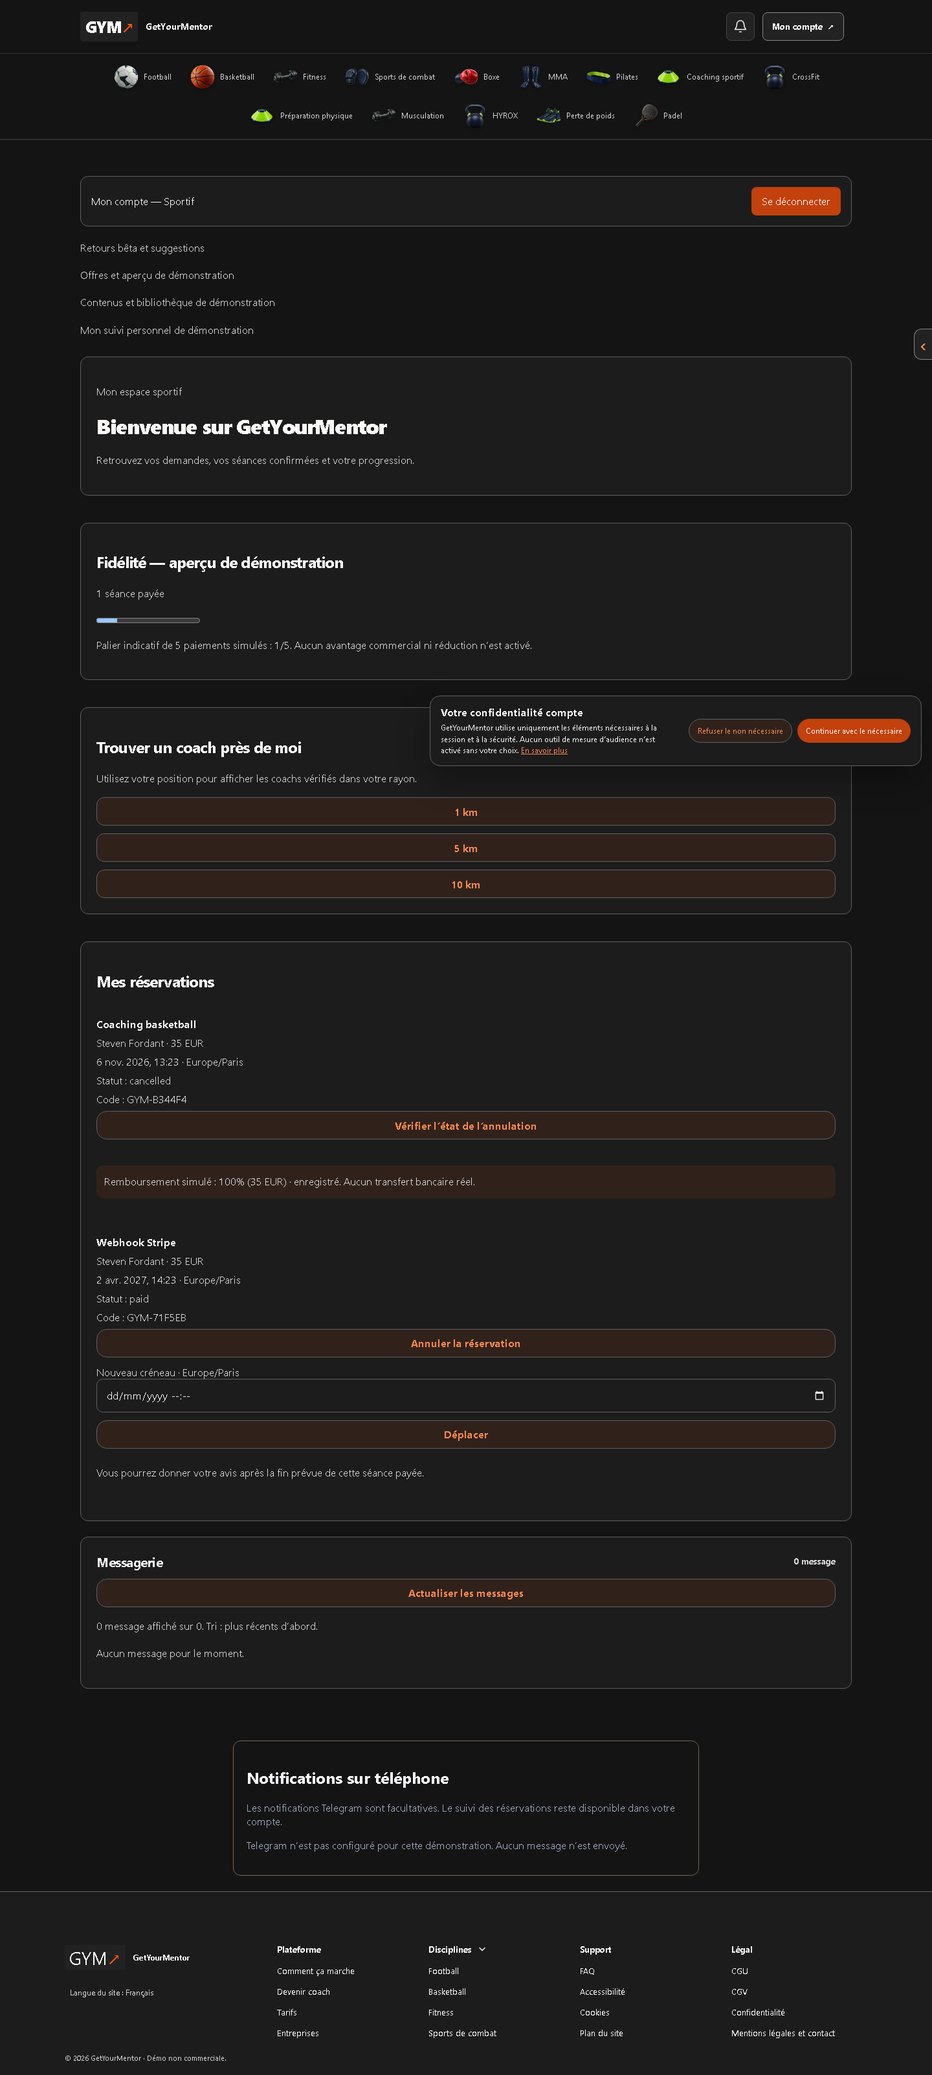
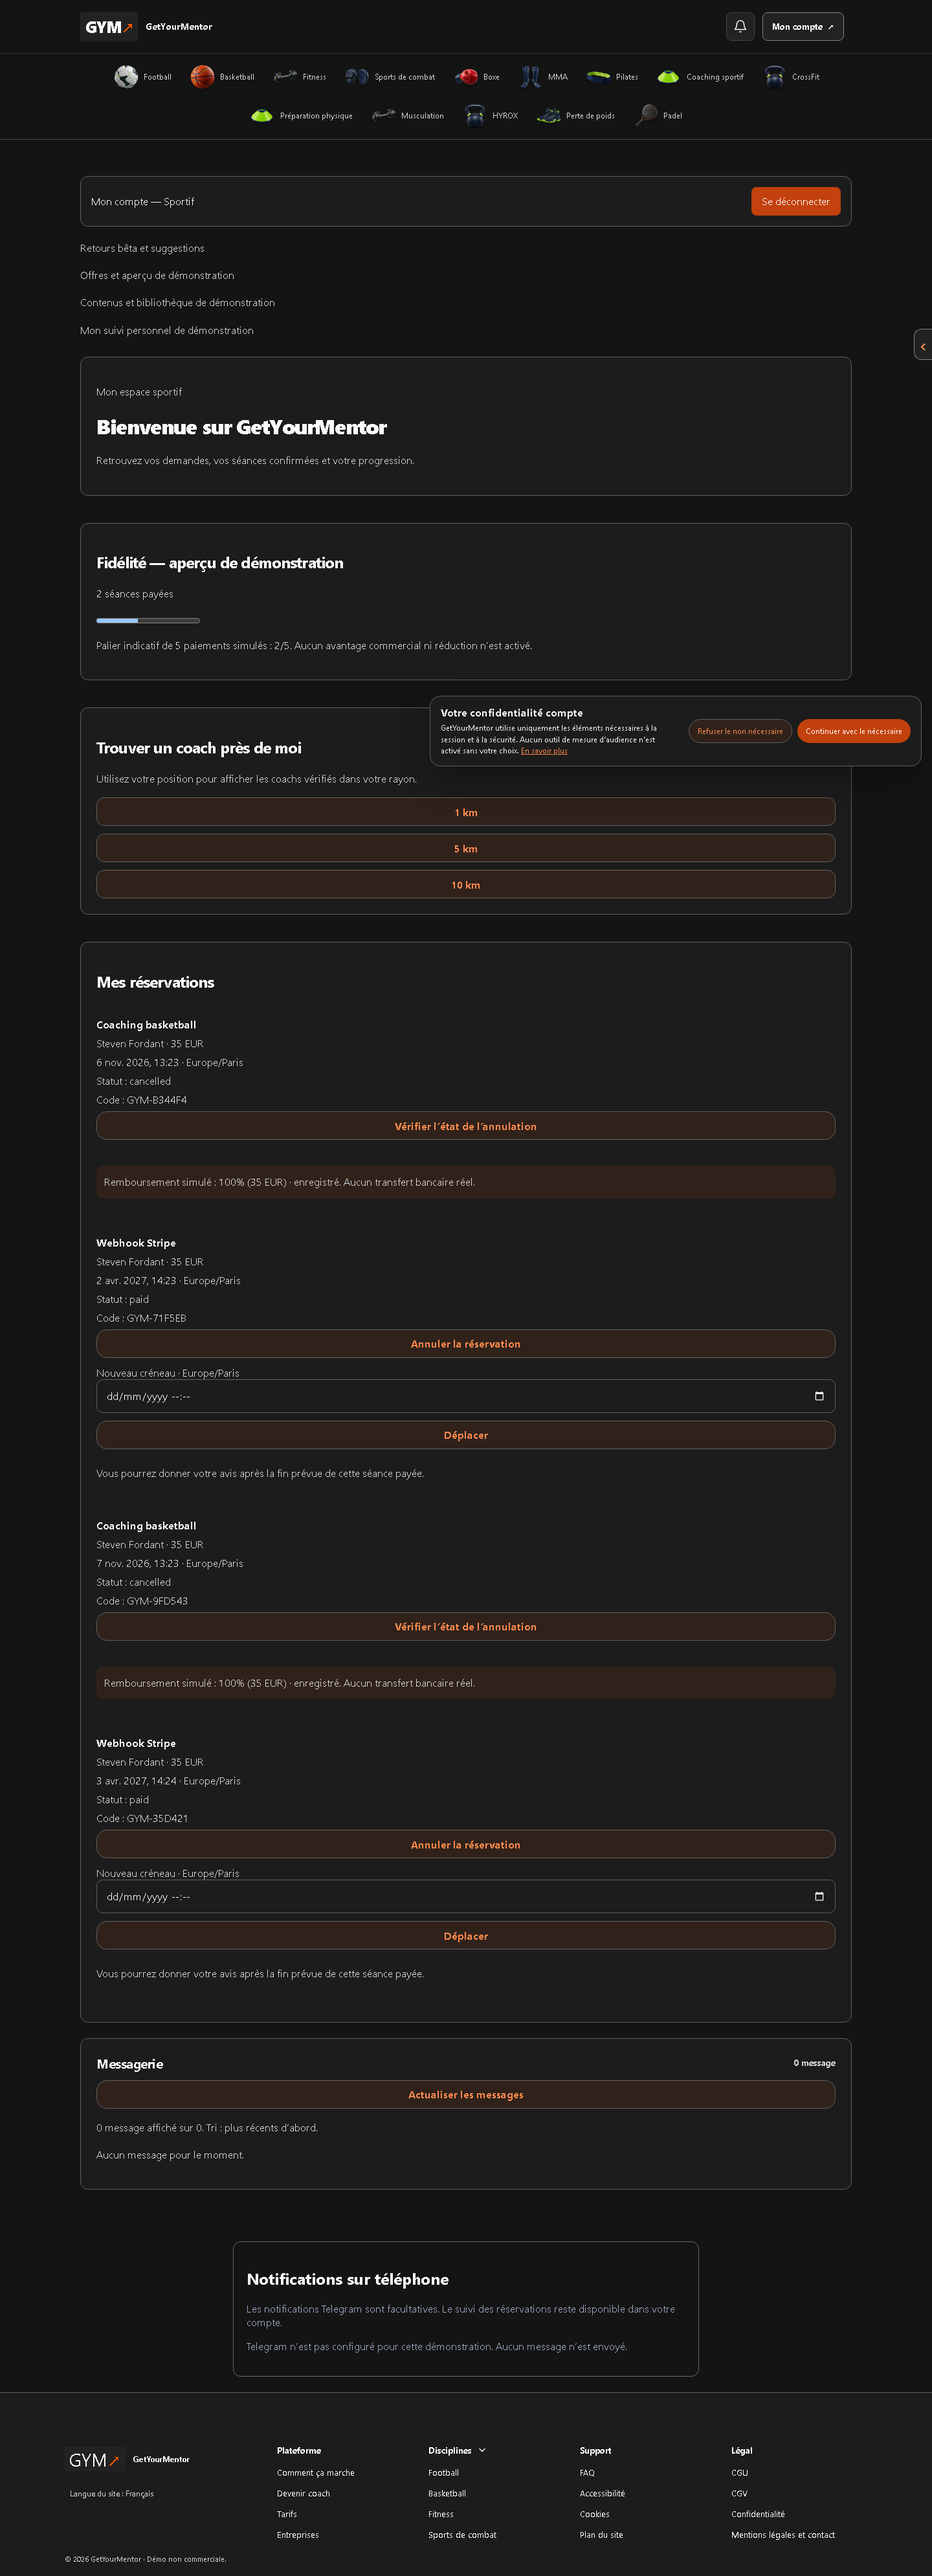
docs(booking): record local validation and external configuration blockers

diff --git a/gym-next/tests/telegram-preferences.spec.ts b/gym-next/tests/telegram-preferences.spec.ts
@@ -1,13 +1,13 @@
 import {test,expect} from '@playwright/test';
 import path from 'node:path';
-test('Telegram preferences require authentication and same origin',async({request,page},info)=>{
+test('Telegram preferences require authentication and same origin',async({request,page,baseURL},info)=>{
  expect((await request.get('/api/telegram/preferences')).status()).toBe(401);
  expect((await request.post('/api/telegram/preferences',{data:{action:'start'},headers:{Origin:'https://untrusted.invalid'}})).status()).toBe(403);
  const signed=await page.request.post('/api/auth/sign-in',{data:{email:'sportif@example.com',password:'demo-password',role:'sportif'}});
  expect(signed.status()).toBe(200);
  // Local HTTP recipe only: preserve the server-signed value, adapt transport to loopback.
  const cookie=signed.headers()['set-cookie'].split(';')[0];const separator=cookie.indexOf('=');
- await page.context().addCookies([{name:cookie.slice(0,separator),value:cookie.slice(separator+1),url:'http://127.0.0.1:3005',httpOnly:true,sameSite:'Lax',secure:false}]);
+ await page.context().addCookies([{name:cookie.slice(0,separator),value:cookie.slice(separator+1),url:baseURL!,httpOnly:true,sameSite:'Lax',secure:false}]);
  const response=await page.request.get('/api/telegram/preferences');expect(response.status()).toBe(200);
  expect(await response.json()).toMatchObject({configured:false,linked:false});
  await page.goto('/compte?mode=sportif');

diff --git a/docs/STRIPE_TELEGRAM_2026-11-03.md b/docs/STRIPE_TELEGRAM_2026-11-03.md
@@ -67,3 +67,11 @@ Preuves finales : `assets/stripe-telegram-2026-11-03/results.json`, `build.txt`,
 Push initial refusé non-fast-forward, distant observé `d50b9eb5cfceeb4b79b4105b9417eb5d94f3793a`. Aucun force-push, fusion ou rebase. Le commit local de ce lot et l'état distant final sont consignés dans la preuve Git de livraison. Aucun déploiement Netlify.
 
 Prochaine action nécessaire : saisie locale des accès, raccordement de la réception Stripe/Telegram, choix des seuls destinataires de recette, vérification du stockage durable existant avant les essais externes. Une migration distante éventuelle exige une autorisation distincte. Ne pas annoncer le parcours externe terminé avant ces preuves.
+
+### Compl?ment de livraison
+
+Commit applicatif local : `38dd18ed628214577e36f027252bab5e2ebe1bb8`. Push normal refus? non-fast-forward ; distant relu inchang? `d50b9eb5cfceeb4b79b4105b9417eb5d94f3793a` (preuve `assets/stripe-telegram-2026-11-03/git-delivery.json`). Aucun contournement.
+
+Le contr?le TypeScript global relanc? dans le dossier principal ?choue sur des copies historiques non suivies sous `gym-next/playwright-artifacts/.../delivery-originals`, `originals` et `avant` (imports absents et anciennes signatures de composants). Le build/TypeScript PASS d?crit plus haut concerne le checkout isol?, pas l'ensemble du dossier principal charg? de ces archives. Ces fichiers ant?rieurs n'ont pas ?t? supprim?s ou modifi?s pour faire passer le contr?le.
+
+Le test Telegram utilise maintenant le baseURL du runner plut?t qu'un port fix?. Contr?le compl?mentaire cibl? ordinateur/mobile **2/2 PASS**, sans addition au total de la suite initiale ; preuve `preferences-final.json`. Captures r?archiv?es ? leur emplacement canonique. Aucun acc?s r?el n'est encore enregistr? au moment de cette cl?ture du lot local.

diff --git a/docs/ETAT_REPRISE_COURANT.md b/docs/ETAT_REPRISE_COURANT.md
@@ -1,3 +1,5 @@
+Compl?ment Git/contr?les du lot Stripe-Telegram : commit applicatif local `38dd18e`, push refus? non-fast-forward, distant `d50b9eb` inchang?. Build/TypeScript du checkout isol? PASS ; contr?le global du dossier principal bloqu? par les anciennes copies sous `playwright-artifacts`, pr?serv?es. Test Telegram portable 2/2 PASS apr?s la suite compl?te 20/20. Voir le rapport pour les preuves et les essais externes encore bloqu?s.
+
 ## Reprise active ? 3 novembre 2026 : Stripe TEST et Telegram
 
 Lot local contr?l? : connecteur Stripe limit? au test, webhook renforc?, donn?es de paiement serveur, association Telegram facultative et file priv?e d?dupliqu?e. **20/20 contr?les cibl?s PASS**, build/TypeScript, fronti?re client et configuration Netlify PASS. Les appels Stripe et messages Telegram sont simul?s dans les tests ; aucun essai externe ni durabilit? Stripe apr?s red?marrage n'est confirm?. L'utilisateur dispose des deux services ; saisie locale des acc?s encore attendue, r?ception des webhooks et destinataires de recette ? raccorder. Migration Telegram pr?par?e, non appliqu?e. Aucun d?ploiement ou paiement r?el.
